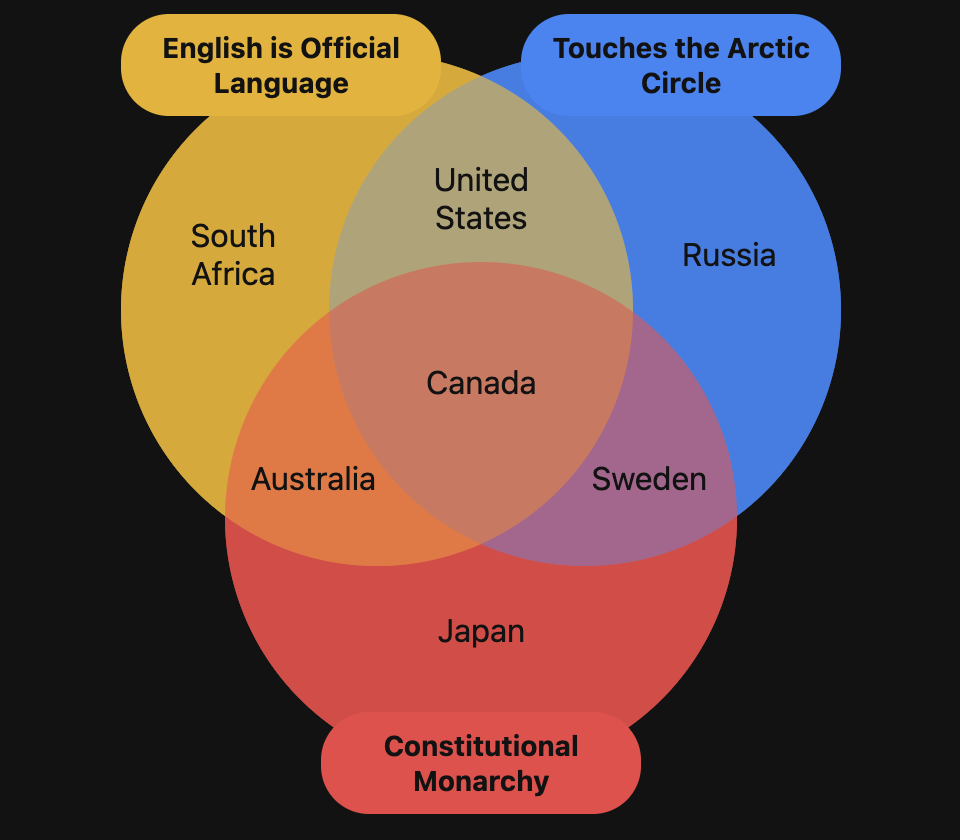
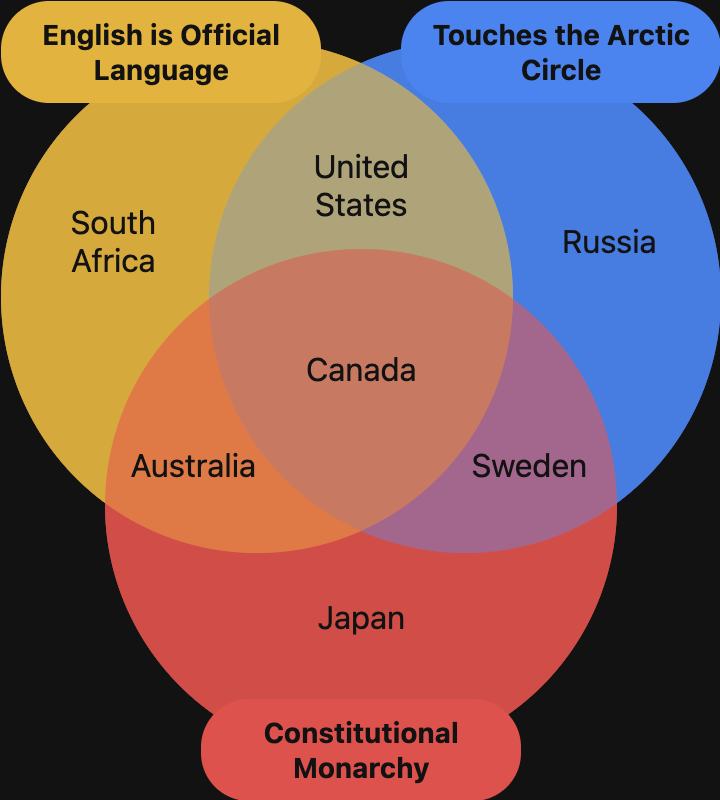
Improve example image appearance

diff --git a/src/style.css b/src/style.css
@@ -270,7 +270,7 @@ button {
 .example-dark,
 .example-light {
   object-fit: contain;
-  width: 30rem;
+  width: 20rem;
 }
 
 .example-dark {
